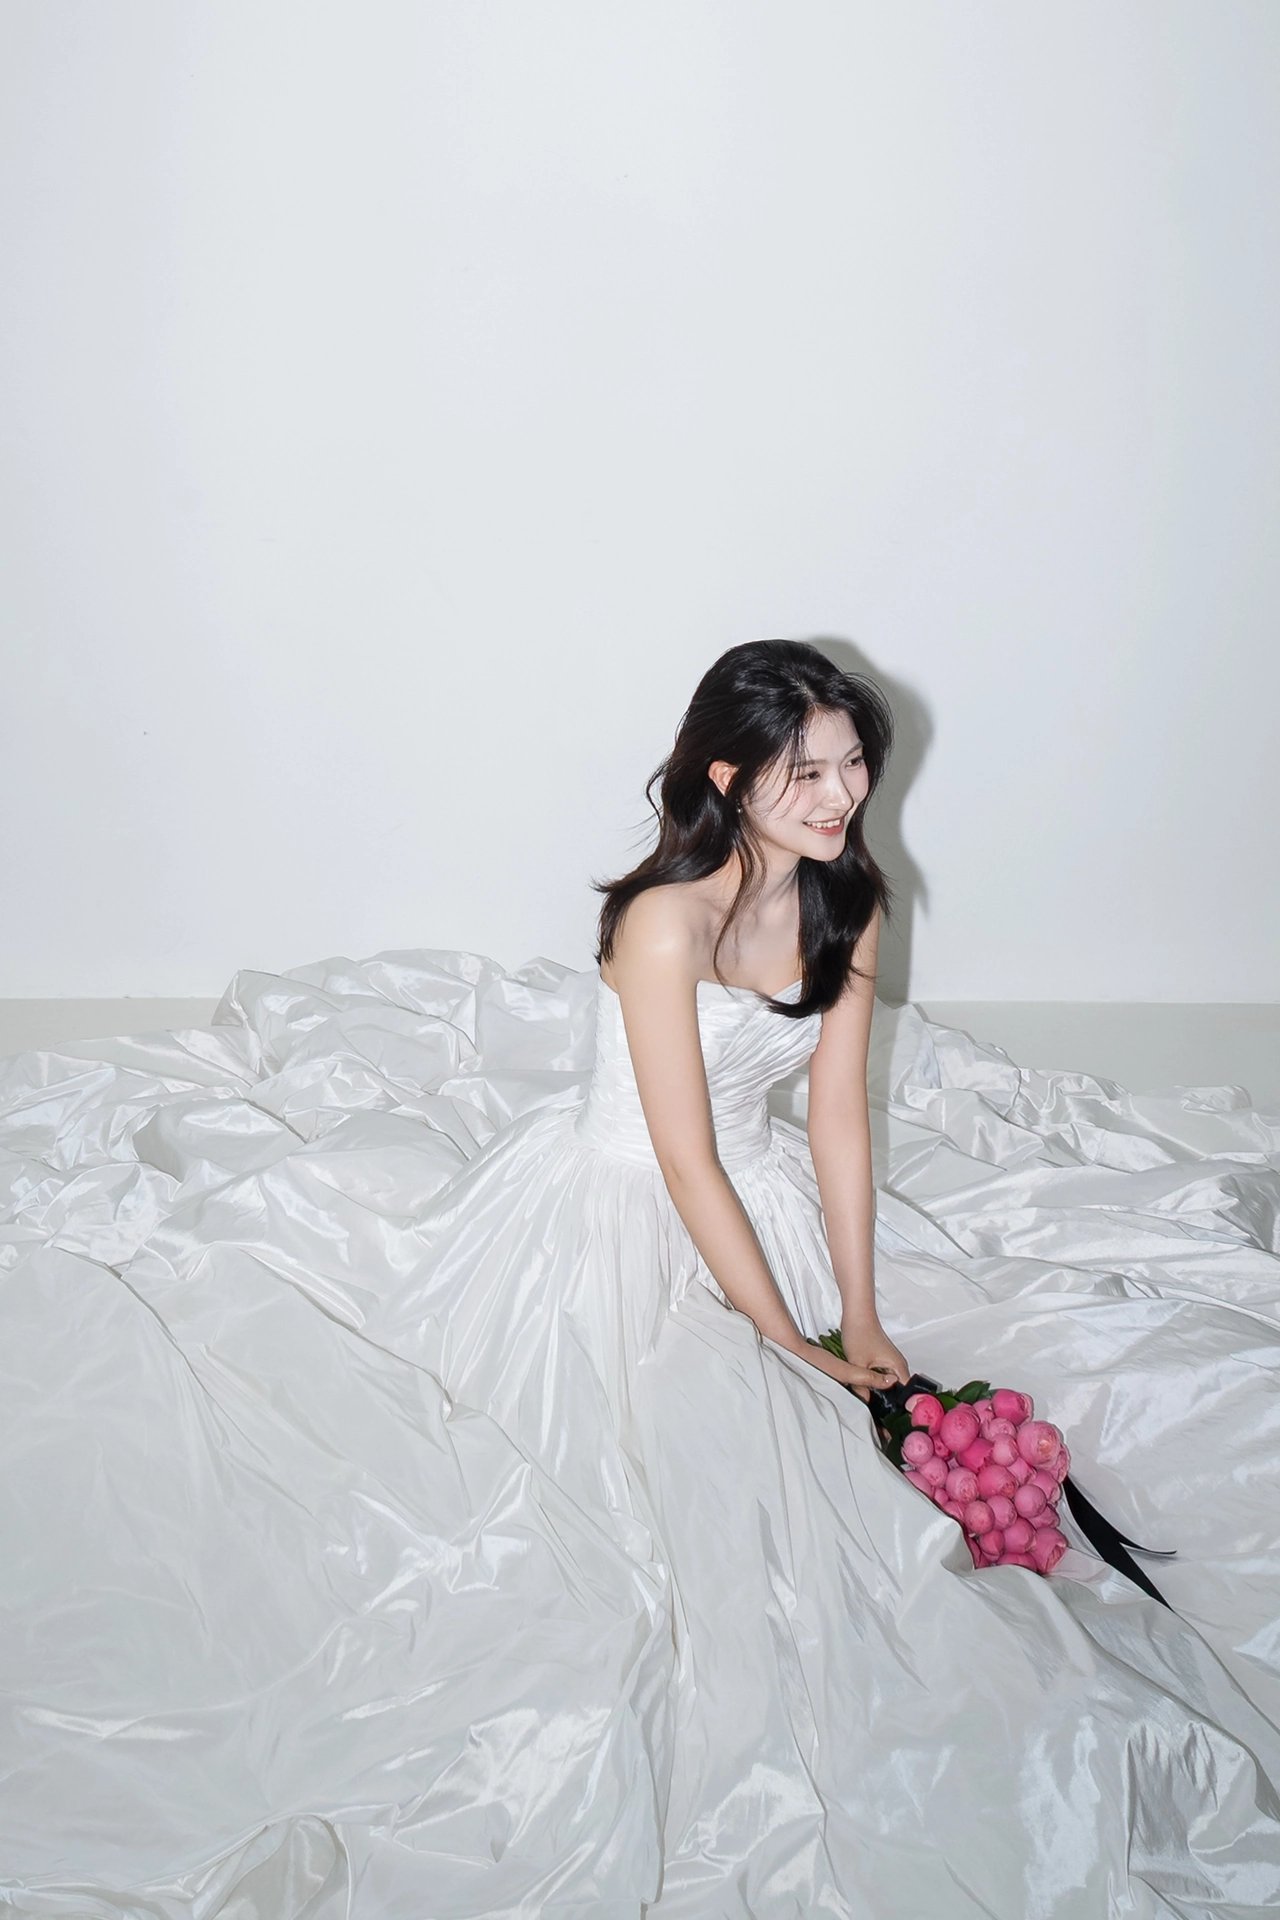
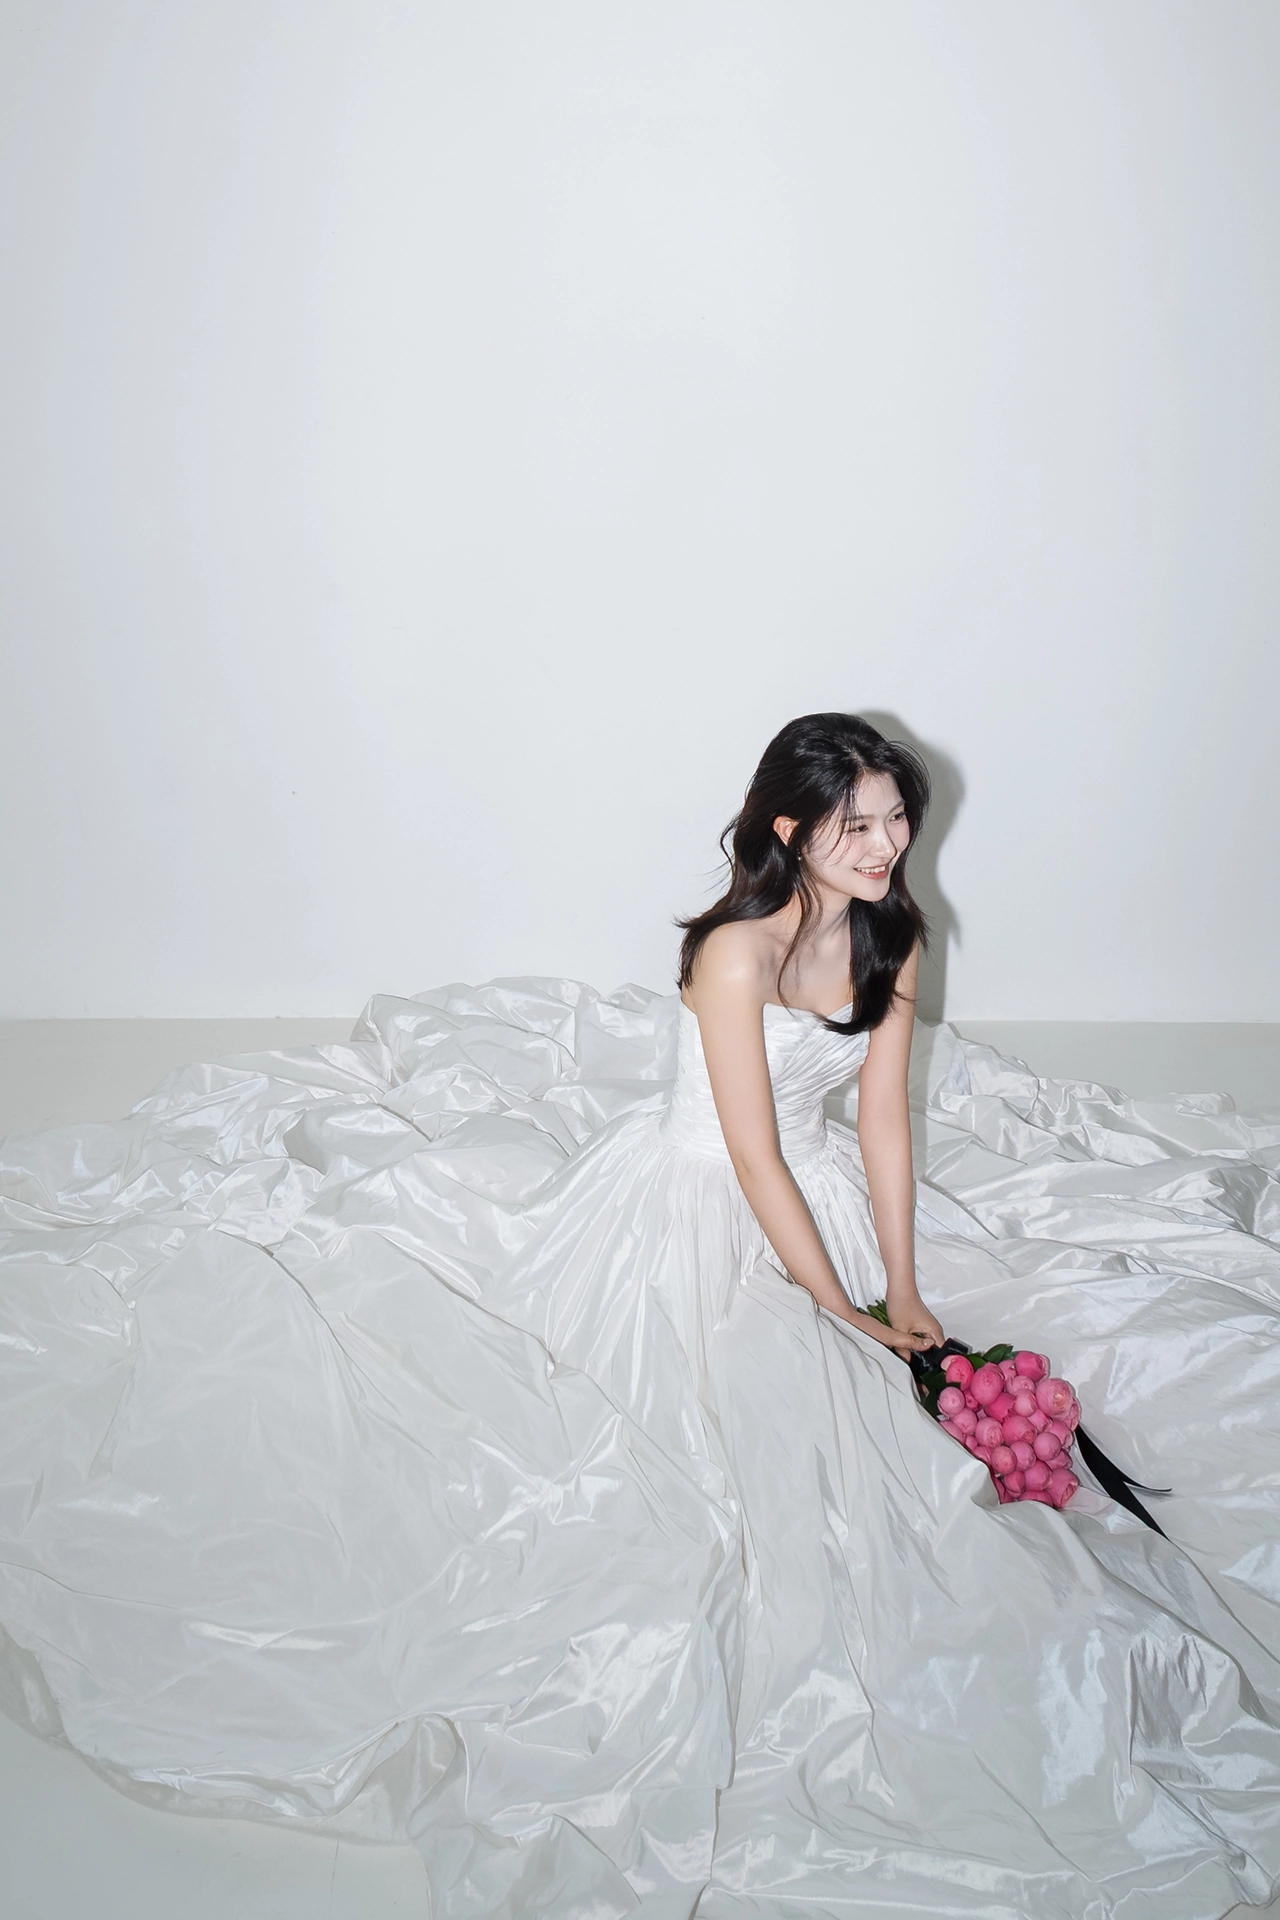
Rebuild gallery crops from uploaded originals and revise third crop

diff --git a/index.html b/index.html
@@ -9,4 +9,4 @@
 <meta property="og:image:alt" content="정상형과 최예선의 웨딩 사진">
 <meta name="twitter:card" content="summary_large_image">
 <meta name="robots" content="noindex, nofollow">
-<link rel="icon" href="assets/favicon.svg" type="image/svg+xml"><link rel="preconnect" href="https://fonts.googleapis.com"><link rel="preconnect" href="https://fonts.gstatic.com" crossorigin><link href="https://fonts.googleapis.com/css2?family=Allura&family=Crimson+Pro:ital,wght@0,300;0,400;0,500;1,300;1,400&family=Gowun+Batang:wght@400;700&family=Gowun+Dodum&family=Noto+Sans+KR:wght@400;500&display=swap" rel="stylesheet"><link rel="stylesheet" href="style.css?v=29"><script src="accounts-config.js?v=28" defer></script><script src="rsvp-config.js?v=7" defer></script><script src="kakao-share.js?v=24" defer></script><script src="app.js?v=32" defer></script></head><body><div id="app"></div><dialog id="photo-dialog" aria-label="웨딩 사진"><button class="photo-close" aria-label="사진 닫기">×</button><img alt="정상형과 최예선의 웨딩 사진"><div class="photo-controls"><button class="photo-prev" aria-label="이전 사진">←</button><span class="photo-counter" aria-live="polite"></span><button class="photo-next" aria-label="다음 사진">→</button></div></dialog><div id="notice" role="status"></div><noscript>청첩장을 보려면 JavaScript를 켜 주세요.</noscript></body></html>
+<link rel="icon" href="assets/favicon.svg" type="image/svg+xml"><link rel="preconnect" href="https://fonts.googleapis.com"><link rel="preconnect" href="https://fonts.gstatic.com" crossorigin><link href="https://fonts.googleapis.com/css2?family=Allura&family=Crimson+Pro:ital,wght@0,300;0,400;0,500;1,300;1,400&family=Gowun+Batang:wght@400;700&family=Gowun+Dodum&family=Noto+Sans+KR:wght@400;500&display=swap" rel="stylesheet"><link rel="stylesheet" href="style.css?v=29"><script src="accounts-config.js?v=28" defer></script><script src="rsvp-config.js?v=7" defer></script><script src="kakao-share.js?v=24" defer></script><script src="app.js?v=33" defer></script></head><body><div id="app"></div><dialog id="photo-dialog" aria-label="웨딩 사진"><button class="photo-close" aria-label="사진 닫기">×</button><img alt="정상형과 최예선의 웨딩 사진"><div class="photo-controls"><button class="photo-prev" aria-label="이전 사진">←</button><span class="photo-counter" aria-live="polite"></span><button class="photo-next" aria-label="다음 사진">→</button></div></dialog><div id="notice" role="status"></div><noscript>청첩장을 보려면 JavaScript를 켜 주세요.</noscript></body></html>

diff --git a/app.js b/app.js
@@ -1,7 +1,7 @@
 /* New collection based on the four selected references. No audio, video or profile modules. */
 const design={id:'10',name:'일월 삼일',skin:'white'};
 const app=document.querySelector('#app');
-const photoSrc=n=>`assets/photo-${String(n).padStart(2,'0')}${[1,3,15].includes(n)?'-enhanced':''}.webp${n===1?'?v=2':''}`;
+const photoSrc=n=>`assets/photo-${String(n).padStart(2,'0')}${[1,3,15].includes(n)?'-enhanced':''}.webp${[1,3,15].includes(n)?'?v=3':''}`;
 const picture=(n,cls='',eager=false)=>`<img class="${cls}" src="${photoSrc(n)}" alt="정상형과 최예선의 웨딩 사진" ${eager?'fetchpriority="high"':'loading="lazy"'} decoding="async">`;
 // Rows: white studio / green & white / beige portraits / dark studio / black & pink.
 const galleryOrder=[1,3,15, 2,4,5, 10,6,13, 7,8,9, 11,14,12];

diff --git a/tools/enhance-gallery.py b/tools/enhance-gallery.py
@@ -4,9 +4,9 @@ from PIL import Image, ImageOps, ImageFilter
 
 root = Path(__file__).resolve().parents[1]
 settings = [
-    (1, 'assets/photo-01.webp', (176, 292, 890, 1335), 85),
-    (3, 'assets/photo-03.webp', (88, 386, 982, 1473), 85),
-    (15, 'KakaoTalk_Photo_2026-11-07-23-27-24.jpeg', (423, 794, 596, 894), 45),
+    (1, 'KakaoTalk_Photo_2026-11-17-23-28-49.jpeg', (176, 292, 890, 1335), 45),
+    (3, 'KakaoTalk_Photo_2026-11-17-23-28-08.jpeg', (88, 386, 982, 1473), 45),
+    (15, 'KakaoTalk_Photo_2026-11-07-23-27-24.jpeg', (330, 702, 700, 1050), 45),
 ]
 for number, filename, (x, y, width, height), amount in settings:
     with Image.open(root / filename) as source:

diff --git a/tools/crop-gallery.py b/tools/crop-gallery.py
@@ -3,7 +3,7 @@ from pathlib import Path
 from PIL import Image
 
 root = Path(__file__).resolve().parents[1]
-crops = [(1, (176, 292, 890, 1335)), (3, (88, 386, 982, 1473)), (15, (423, 794, 596, 894))]
+crops = [(1, (176, 292, 890, 1335)), (3, (88, 386, 982, 1473)), (15, (330, 702, 700, 1050))]
 for number, (x, y, width, height) in crops:
     source = root / f'assets/photo-{number:02d}.webp'
     target = root / f'assets/photo-{number:02d}-cropped.webp'
